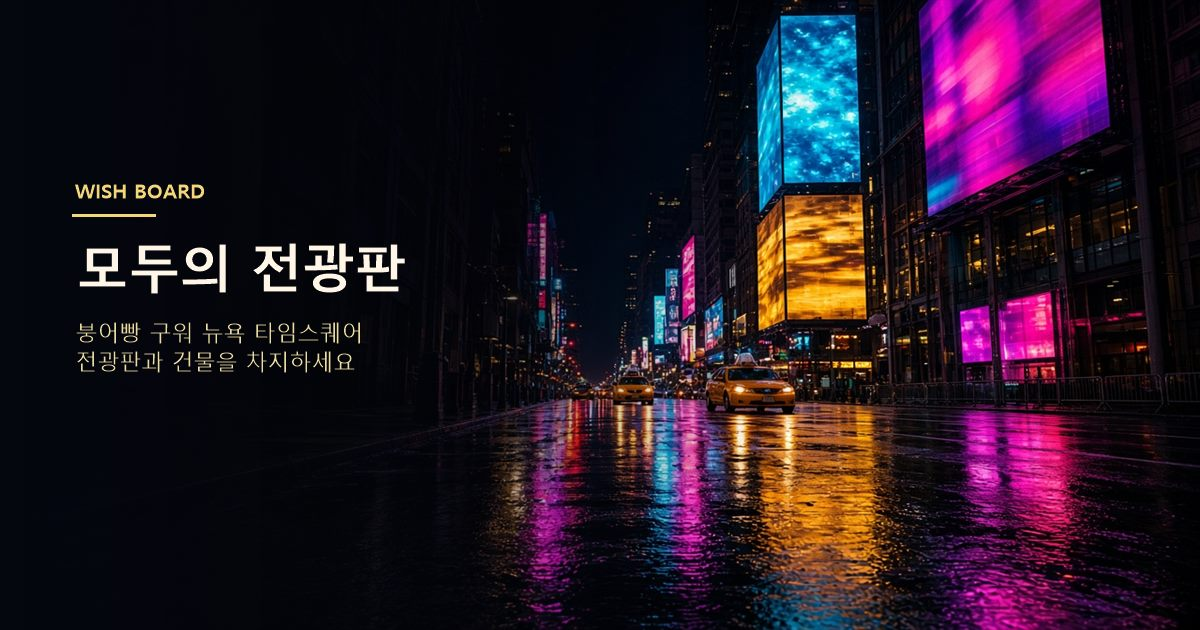
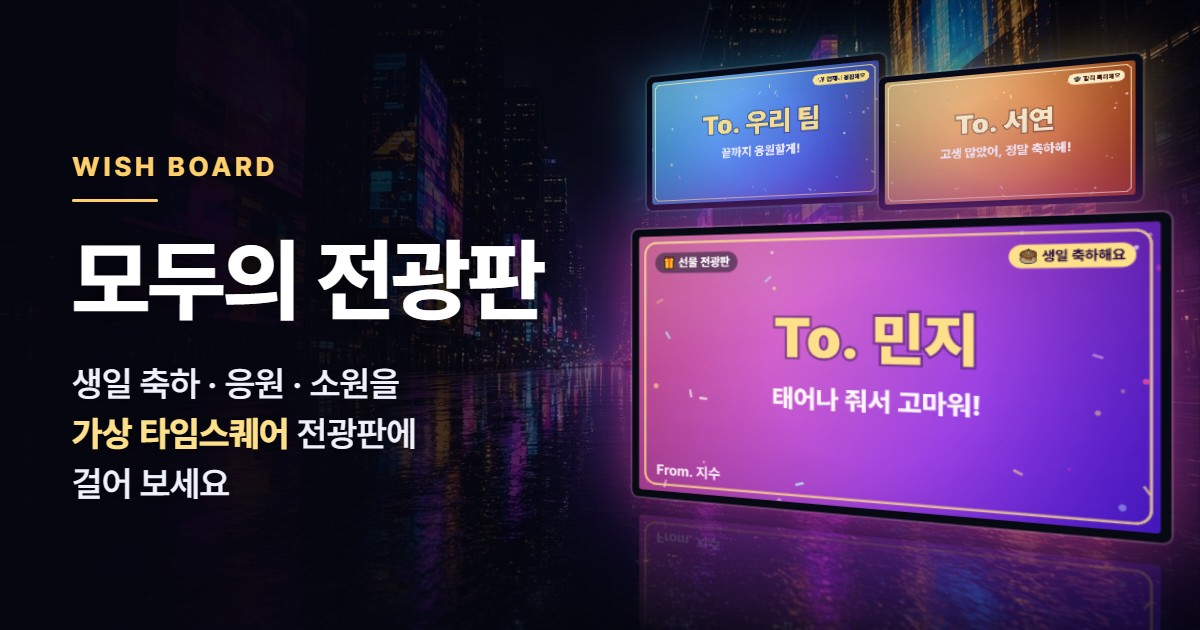
Rebuild og.jpg with the non-game copy and three gift boards; og.jpg?v=3.
The link-preview picture no longer carries the game line. Its source is
tools/og/og.html and node tools/build-og.mjs renders it with a local Chrome.

diff --git a/tools/og/og.html b/tools/og/og.html
@@ -1,0 +1,78 @@
+<!doctype html>
+<html lang="ko">
+<head>
+<meta charset="utf-8" />
+<title>og.jpg source (1200 x 630)</title>
+<!-- The source of /og.jpg, the link-preview picture. Build: node tools/build-og.mjs (serves the repo root, so /icons and /giftart.js resolve).
+     The boards are painted by the product's own giftart.js, so the picture shows what a 선물 전광판 really looks like. -->
+<link rel="stylesheet" href="https://cdn.jsdelivr.net/gh/orioncactus/pretendard@v1.3.9/dist/web/variable/pretendardvariable-dynamic-subset.min.css" />
+<style>
+  html, body { margin: 0; background: #05060f; }
+  #card { position: relative; width: 1200px; height: 630px; overflow: hidden; background: #05060f; color: #fff;
+    font-family: "Pretendard Variable", Pretendard, "Apple SD Gothic Neo", "Noto Sans KR", "Malgun Gothic", sans-serif; }
+  .bg { position: absolute; inset: 0; background: url(/icons/boot.jpg) 50% 42% / cover no-repeat; filter: saturate(1.1) brightness(.95); }
+  .shade { position: absolute; inset: 0;
+    background:
+      linear-gradient(90deg, rgba(5,6,16,.97) 0%, rgba(5,6,16,.93) 26%, rgba(5,6,16,.6) 46%, rgba(5,6,16,.12) 70%, rgba(5,6,16,.12) 100%),
+      linear-gradient(180deg, rgba(5,6,16,.5) 0%, rgba(5,6,16,0) 28%, rgba(5,6,16,0) 70%, rgba(5,6,16,.55) 100%); }
+
+  .copy { position: absolute; left: 72px; top: 150px; width: 520px; }
+  .brand { font-size: 27px; font-weight: 800; letter-spacing: .13em; color: #ffcf6b; }
+  .rule { width: 86px; height: 3px; margin: 16px 0 30px; background: #ffcf6b; border-radius: 2px; }
+  h1 { margin: 0; font-size: 90px; line-height: 1.08; font-weight: 800; letter-spacing: -.025em; text-shadow: 0 2px 24px rgba(0,0,0,.55); }
+  .sub { margin: 30px 0 0; font-size: 35px; line-height: 1.42; font-weight: 600; letter-spacing: -.01em; color: #eef0fb; text-shadow: 0 2px 16px rgba(0,0,0,.6); }
+  .sub b { font-weight: 800; color: #ffe08a; }
+
+  .stage { position: absolute; inset: 0; perspective: 1050px; perspective-origin: 44% 48%; }
+  .board { position: absolute; transform-origin: 50% 50%; border-radius: 7px; background: #070913; padding: 8px; transform: rotateY(-27deg);
+    box-shadow: 0 0 0 2px rgba(255,255,255,.1), 0 24px 60px rgba(0,0,0,.6); }
+  .board canvas { display: block; width: 100%; height: 100%; border-radius: 3px; }
+  .board::after { content: ""; position: absolute; inset: 8px; border-radius: 3px; pointer-events: none;
+    background: linear-gradient(160deg, rgba(255,255,255,.14) 0%, rgba(255,255,255,0) 34%); }
+  .main { left: 616px; top: 222px; width: 496px; height: 279px;
+    box-shadow: 0 0 0 2px rgba(255,255,255,.14), 0 0 70px rgba(255,79,163,.6), 0 0 170px rgba(91,33,255,.55), 0 30px 70px rgba(0,0,0,.6);
+    -webkit-box-reflect: below 12px linear-gradient(rgba(0,0,0,0) 50%, rgba(0,0,0,.36)); }
+  .b2 { left: 640px; top: 66px; width: 228px; height: 128px; padding: 6px;
+    box-shadow: 0 0 0 2px rgba(255,255,255,.1), 0 0 50px rgba(56,189,248,.5), 0 18px 40px rgba(0,0,0,.55); }
+  .b3 { left: 884px; top: 66px; width: 228px; height: 128px; padding: 6px;
+    box-shadow: 0 0 0 2px rgba(255,255,255,.1), 0 0 50px rgba(255,211,107,.45), 0 18px 40px rgba(0,0,0,.55); }
+  .b2::after, .b3::after { inset: 6px; }
+</style>
+</head>
+<body>
+<div id="card">
+  <div class="bg"></div>
+  <div class="shade"></div>
+  <div class="stage">
+    <div class="board b2"><canvas id="c2" width="1024" height="576"></canvas></div>
+    <div class="board b3"><canvas id="c3" width="1024" height="576"></canvas></div>
+    <div class="board main"><canvas id="c1" width="1024" height="576"></canvas></div>
+  </div>
+  <div class="copy">
+    <div class="brand">WISH BOARD</div>
+    <div class="rule"></div>
+    <h1>모두의 전광판</h1>
+    <p class="sub">생일 축하 · 응원 · 소원을<br /><b>가상 타임스퀘어</b> 전광판에<br />걸어 보세요</p>
+  </div>
+</div>
+<script type="module">
+  import { paintGift, GIFT_SANS } from '/giftart.js';
+  // Sample boards. Names are made up; the words are the product's own occasion lines.
+  const BOARDS = [
+    ['c1', { id: 'og-main', to: '민지', from: '지수', occ: 'bday', msg: '태어나 줘서 고마워!' }, {}],
+    ['c2', { id: 'og-cheer', to: '우리 팀', from: '', occ: 'cheer', msg: '끝까지 응원할게!' }, { chip: false }],
+    ['c3', { id: 'og-pass', to: '서연', from: '', occ: 'pass', msg: '고생 많았어, 정말 축하해!' }, { chip: false }],
+  ];
+  window.ogReady = (async () => {
+    const text = BOARDS.map(([, g]) => 'To. From. ' + g.to + g.from + g.msg).join('') + '선물 전광판 생일 축하해요 언제나 응원해요 합격 축하해요';
+    // Canvas text does not start a font download by itself: ask for the weights the boards use first.
+    try { await Promise.all([700, 800, 900].map((w) => document.fonts.load(`${w} 40px ${GIFT_SANS}`, text))); } catch { /* the system font draws instead */ }
+    try { await document.fonts.ready; } catch { /* same */ }
+    await new Promise((res) => { const im = new Image(); im.onload = im.onerror = res; im.src = '/icons/boot.jpg'; });
+    for (const [id, g, opts] of BOARDS) paintGift(document.getElementById(id), g, opts);
+    await new Promise((res) => requestAnimationFrame(() => requestAnimationFrame(res)));
+    return document.fonts.check('800 40px "Pretendard Variable"') ? 'pretendard' : 'fallback font';
+  })();
+</script>
+</body>
+</html>

diff --git a/index.html b/index.html
@@ -15,8 +15,8 @@
 <meta property="og:url" content="https://studio.wishboard.workers.dev/" />
 <meta property="og:site_name" content="WISH BOARD" />
 <meta property="og:locale" content="ko_KR" />
-<meta property="og:image" content="https://studio.wishboard.workers.dev/og.jpg?v=2" />
-<meta property="og:image:secure_url" content="https://studio.wishboard.workers.dev/og.jpg?v=2" />
+<meta property="og:image" content="https://studio.wishboard.workers.dev/og.jpg?v=3" />
+<meta property="og:image:secure_url" content="https://studio.wishboard.workers.dev/og.jpg?v=3" />
 <meta property="og:image:type" content="image/jpeg" />
 <meta property="og:image:width" content="1200" />
 <meta property="og:image:height" content="630" />
@@ -24,11 +24,11 @@
 <meta name="twitter:card" content="summary_large_image" />
 <meta name="twitter:title" content="WISH BOARD : 모두의 전광판" />
 <meta name="twitter:description" content="생일 축하·응원·소원을 가상 타임스퀘어 전광판에 걸어 보세요!" />
-<meta name="twitter:image" content="https://studio.wishboard.workers.dev/og.jpg?v=2" />
+<meta name="twitter:image" content="https://studio.wishboard.workers.dev/og.jpg?v=3" />
 <meta name="twitter:image:alt" content="WISH BOARD : 모두의 전광판 — 가상 타임스퀘어에 거는 생일·응원 전광판" />
 <title>WISH BOARD : 모두의 전광판</title>
 <script type="application/ld+json">
-{"@context":"https://schema.org","@type":"WebApplication","name":"WISH BOARD : 모두의 전광판","url":"https://studio.wishboard.workers.dev/","description":"뉴욕 타임스퀘어를 본뜬 3D 가상 광장의 전광판에 생일 축하·응원·소원을 거는 무료 웹 서비스.","applicationCategory":"LifestyleApplication","operatingSystem":"Any","browserRequirements":"Requires JavaScript and WebGL","inLanguage":"ko","image":"https://studio.wishboard.workers.dev/og.jpg?v=2","offers":{"@type":"Offer","price":"0","priceCurrency":"KRW"}}
+{"@context":"https://schema.org","@type":"WebApplication","name":"WISH BOARD : 모두의 전광판","url":"https://studio.wishboard.workers.dev/","description":"뉴욕 타임스퀘어를 본뜬 3D 가상 광장의 전광판에 생일 축하·응원·소원을 거는 무료 웹 서비스.","applicationCategory":"LifestyleApplication","operatingSystem":"Any","browserRequirements":"Requires JavaScript and WebGL","inLanguage":"ko","image":"https://studio.wishboard.workers.dev/og.jpg?v=3","offers":{"@type":"Offer","price":"0","priceCurrency":"KRW"}}
 </script>
 <link rel="preconnect" href="https://cdn.jsdelivr.net" crossorigin />
 <link rel="modulepreload" href="https://cdn.jsdelivr.net/npm/@supabase/supabase-js@2/+esm" crossorigin />

diff --git a/gift.html b/gift.html
@@ -8,7 +8,7 @@
 <meta name="description" content="뉴욕 타임스퀘어를 본뜬 가상 광장에 친구를 위한 생일·기념 전광판을 6시간 무료로 걸고, 15초 축하 영상과 롤링페이퍼로 마음을 전하세요." />
 <meta property="og:title" content="🎁 선물 전광판 · WISH BOARD" />
 <meta property="og:description" content="뉴욕 타임스퀘어를 본뜬 가상 광장에 친구를 위한 전광판을 6시간 무료로 걸어 보세요." />
-<meta property="og:image" content="https://studio.wishboard.workers.dev/og.jpg?v=2" />
+<meta property="og:image" content="https://studio.wishboard.workers.dev/og.jpg?v=3" />
 <meta name="twitter:card" content="summary_large_image" /><!--/GIFT_META-->
 <link rel="icon" href="/icons/app-icon.jpg?v=4" type="image/jpeg" />
 <link rel="modulepreload" href="/giftpage.js?v=202611230850" />

diff --git a/ads.html b/ads.html
@@ -9,7 +9,7 @@
 <meta property="og:title" content="모두의 전광판 광고 안내" />
 <meta property="og:description" content="가상 타임스퀘어의 광고 전용 화면에 하루 단위로 광고하세요. 생일·응원 광고도 됩니다." />
 <meta property="og:type" content="website" />
-<meta property="og:image" content="https://studio.wishboard.workers.dev/og.jpg?v=2" />
+<meta property="og:image" content="https://studio.wishboard.workers.dev/og.jpg?v=3" />
 <title>광고 안내 · WISH BOARD</title>
 <link rel="stylesheet" href="https://cdn.jsdelivr.net/gh/orioncactus/pretendard@v1.3.9/dist/web/variable/pretendardvariable-dynamic-subset.min.css" />
 <style>

diff --git a/IMPLEMENTED.md b/IMPLEMENTED.md
@@ -648,7 +648,7 @@ Room이 `BONUS`로 받는 종류는 `balance.js` `BONUS_KINDS`(attend, mission, 
 
 ## 검색·홈 화면 추가·주간 돌아보기 (2026-11-22, 5차)
 
-- **검색**: `robots.txt`(`/` 허용, `/rt/`·`/admin`·`/oauth` 금지, 공유 미리보기용 `/rt/w/`·`/rt/s/`·`/rt/card/`·`/rt/snap/` 허용, 사이트맵 표시), `sitemap.xml`(`/`, `/ads`), `index.html` 한국어 설명 메타와 `WebApplication` JSON-LD(무료). `manifest.webmanifest`에 `id`·`scope`·`lang`·설명·방향·분류, 아이콘 PNG 192·512·512 maskable(`icons/app-icon-*.png`). `tools/prod-check.mjs`가 `[seo]`로 확인한다.
+- **검색**: `robots.txt`(`/` 허용, `/rt/`·`/admin`·`/oauth` 금지, 공유 미리보기용 `/rt/w/`·`/rt/s/`·`/rt/card/`·`/rt/snap/` 허용, 사이트맵 표시), `sitemap.xml`(`/`, `/ads`), `index.html` 한국어 설명 메타와 `WebApplication` JSON-LD(무료). `manifest.webmanifest`에 `id`·`scope`·`lang`·설명·방향·분류, 아이콘 PNG 192·512·512 maskable(`icons/app-icon-*.png`). `tools/prod-check.mjs`가 `[seo]`로 확인한다. 링크 미리보기 그림 `og.jpg`(1200×630, 약 128KB)는 `tools/og/og.html`을 `node tools/build-og.mjs`가 이 PC의 Chrome(없으면 Edge)으로 찍어 만든다: 왼쪽에 `WISH BOARD` · `모두의 전광판` · `생일 축하 · 응원 · 소원을 가상 타임스퀘어 전광판에 걸어 보세요`, 오른쪽에 선물 전광판 세 개(생일·응원·합격, `giftart.js` `paintGift`가 그린 것, 이름은 지어낸 것), 배경은 `icons/boot.jpg`. 그림을 다시 만들면 `index.html`·`gift.html`·`ads.html`의 `og.jpg?v=`를 올린다(지금 `v=3`).
 - **홈 화면 추가 카드**(`install.js`): `index.html` 인라인 스크립트가 `beforeinstallprompt`를 `window.__ktsInstall`로 잡아 둔다. 방문 날짜가 2일 이상(`kts_visits`, KST 날짜로 셈)이고 이번 방문에 첫 소원·점령·3분 이상 중 하나가 있으면, 평생 한 번(`kts_a2hs`) 작은 카드(추가/나중에)를 띄운다. 독립 실행·처음 온 사람에게는 없다. iOS 사파리(카카오·인스타·크롬 안 브라우저 제외)는 '공유 → 홈 화면에 추가' 세 단계 안내. 시트·축하 줄·다른 제안이 있으면 비켜나고 25초 뒤 사라진다. GA 이벤트 `install_prompt`. 카드는 떠 있는 카드 묶음(`화면에서 이미 이어 둔 것`)에 토스트 아래로 선다. 터치 화면이 카드와 토스트 하나를 HUD 아래에 담기에 낮으면(iOS 카드는 높이 599px 이하, 다른 카드는 539px 이하) 또는 휴대폰을 가로로 들면 시트가 떠 있을 때처럼 기다리고(25초도 세지 않는다) 자리가 나면 뜬다(`install.js` `INSTALL_CRAMPED_Q`).
 - **주간 돌아보기**(`recap.js`): 이 브라우저의 지난주 기록(`kts_wk`: 들어온 날, 점령, 가진 칸, 연속 출석, 소원 하트)이 있을 때만, KST 주의 첫 입장 10초 뒤 조용할 때 한 번(`kts_wk_shown`) 시트 '지난주 돌아보기'. 그때만 `GET /rt/recap` 한 번(지난주 리그 순위·코인·참가자 수, 계정 isolate 10분 캐시, 예산 hard면 503, `Meter.lgMe`는 숫자만). 결과는 `kts_wk_me`에 남겨 새로 고쳐도 다시 묻지 않는다. `공유하기`는 숫자만 담은 글과 초대 코드 링크. GA 이벤트 `week_recap`.
 
@@ -1007,7 +1007,7 @@ node tools/prod-e2e.mjs https://studio.wishboard.workers.dev
 | `enter` | 셋 다 `net.js`처럼 `wss://…/rt/ws?topic=chapel:square&room=square`, 하위 프로토콜 `masil2`와 `at.<토큰>`으로 연다. `ok`를 기다리고 25초마다 `ping`. `main.js`처럼 `{t:'BONUS', kind:'hello'}`를 보내 hello `PAY` 40을 받는다(앞선 실행에서 받았으면 두 번 오지 않는지 본다). `/rt/flush-wallet`로 정산하고 `/rt/wallet`의 `exists`를 본다. `tr`(프레즌스)는 보내지 않아 광장에 아바타가 서지 않는다 |
 | `coins` | 게스트 1의 지갑이 1000코인보다 적을 때만 `POST /rt/admin/coins {actor_id, amount:3000}`. 지갑이 그만큼 는다. 다시 돌릴 때 운영자 지급이 쌓이지 않는다. `WALLET_SYNC`는 있으면 PASS, 없으면 SKIP |
 | `wish` | 게스트 3의 링크·전화번호 소원이 `link`로 거절되고 그날 소원이 남는지. 게스트 1이 `소원 점검 중이에요 🌠`를 올리고, 바로 고치면 `soon`, 방에 `WISH`, `mine`·`recent`, 게스트 2의 하트(하트 1, `left` 1 감소), 두 번째 하트 `dup`, 자기 하트 `own`, `?id=`의 `focus`, `/rt/world` `wish.board` |
-| `share` | `og.jpg`(117KB)를 `POST /rt/snap?wish=<id>`로. `/rt/s/<id>`의 `og:image`가 `/rt/snap/<id>`이고 그것이 `image/jpeg`. `/rt/w/<id>`의 `og:description`이 소원 글, 그림이 그 사진. 게스트 2가 같은 `?wish=`로 올려도 미리보기는 그대로이고 게스트 2 사진 페이지는 사이트 기본 제목 |
+| `share` | `og.jpg`(약 128KB)를 `POST /rt/snap?wish=<id>`로. `/rt/s/<id>`의 `og:image`가 `/rt/snap/<id>`이고 그것이 `image/jpeg`. `/rt/w/<id>`의 `og:description`이 소원 글, 그림이 그 사진. 게스트 2가 같은 `?wish=`로 올려도 미리보기는 그대로이고 게스트 2 사진 페이지는 사이트 기본 제목 |
 | `push` | `GET /rt/push/key`만. 가짜 구독은 넣지 않는다 |
 | `board` | `/rt/world`에서 주인 없는 칸 가운데 메인 타워, 무료 칸(`BALANCE.starterSlots`와 `GET /rt/config`의 `starter`에 있는 칸 모두, `starterOf`. `/rt/config`를 못 읽으면 점령하지 않고 FAIL), 주인 있는 분양 필지 앞(입찰 절반이 그 사람에게 간다)을 빼고 가장 싼 칸. 그런 칸이 2개 미만이면 SKIP(마지막 빈 칸은 가져가지 않는다). `ui.js`가 보내는 몸으로 `claim` 최소 입찰, 세 줄 `점검 중` / `곧 내려갑니다` / 빈 줄. 월드의 주인, 지갑 감소, 방의 `WORLD_UPDATE`, 같은 날 `/rt/relight`가 `lit_until`을 바꾸지 않는지. 점령 직후 게스트 2가 `{t:'CHEER', slot, p:1}`을 한 번 보내 `PAY` kind `cheer`를 받고(`dark`를 다시 해 보지 않는다), 게스트 1 소켓에 게스트 2가 보낸 `INBOX` cheer, 게스트 2를 정산하면 방의 우편 대기열이 나가서 게스트 1 `/rt/inbox`에 cheer 줄(`from`이 게스트 2), `/rt/inbox/read`가 `ok`. `/rt/inbox` 줄에 `read`가 있으면(마이그레이션 3부 뒤) 읽기 전 `false`, 읽은 뒤 다시 읽어 `true`인지 본다. 없으면 SKIP 한 줄 |
 | `moderation` | `/rt/admin/wishes`에 있고, `POST /rt/admin/wish {id, hide:true}`로 가리면 `/rt/wishes` 목록에서 빠지고 게스트 1에게는 `hidden`, `/rt/w/<id>`는 `/`로 302 |

diff --git a/docs/wording-sweep.md b/docs/wording-sweep.md
@@ -70,7 +70,7 @@
 
 | 무엇 | 왜 | 누가 |
 | --- | --- | --- |
-| `og.jpg` 그림 | 그림 안에 "붕어빵 구워 뉴욕 타임스퀘어 전광판과 건물을 차지하세요"가 글자로 박혀 있다. 링크 미리보기마다 보인다. 1200×630, 600KB 아래(`test/launch-seo.test.mjs`)로 다시 만들고 `?v=`를 올린다 | 리드(디자인) |
+| `og.jpg` 그림 | **고침(2026-11-24, 배포 전)**: 그림 안에 박혀 있던 "붕어빵 구워 뉴욕 타임스퀘어 전광판과 건물을 차지하세요"를 없애고 `생일 축하 · 응원 · 소원을 가상 타임스퀘어 전광판에 걸어 보세요`와 선물 전광판 세 개로 새로 만들었다(`node tools/build-og.mjs`, 원본 `tools/og/og.html`). 1200×630, 약 128KB, 주소는 `og.jpg?v=3` | 리드(디자인) |
 | Google OAuth 동의 화면의 앱 이름·설명 | 구글 로그인 창에 보인다. 예전 이름이면 바꾼다 [확인 못함: 저장소에 기록 없음] | 주인(Google Cloud 콘솔) |
 | Supabase Auth 메일 틀 | 메일 확인을 켜면 보인다(지금은 꺼짐) [확인 못함] | 주인 |
 | `AGENTS.md`·`IMPLEMENTED.md` 첫 줄의 "타임스퀘어 K-점령전" | 화면에는 안 보이지만 다음 작업자가 게임으로 읽는다 | 리드 (전환을 합친 뒤) |
